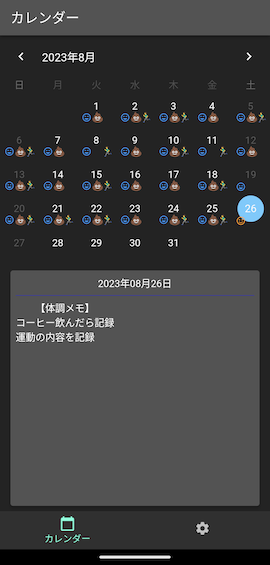
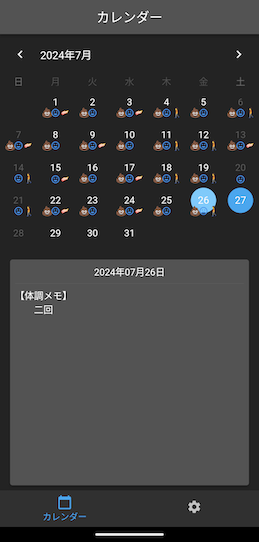
fix: 機能追加とUI変更に伴い、READMEの内容とスクショ画像を差し替え

diff --git a/README.md b/README.md
@@ -1,6 +1,10 @@
 # simple_dyphic
-体調管理アプリdyphicの超簡易版アプリ  
-ついでにRiverpodを導入したりsqfliteをhiveに変更するなどライブラリ周りを色々変更
+体調管理アプリdyphicの簡易版アプリとして作成しました。  
+初めは簡易版で終わらせるつもりでしたが、数年経過してもう少し情報を追加したくなったのでdyphicの簡易版ではなくなっています。  
+
+私しか使わない想定のアプリですのでAndroidアプリ側しか動作確認と利用をしていません。ただ、一応どちらでも使える実装にはなっているはずです。
+
+（Appleのヘルスケアアプリ連携の部分は動くか不明なのと、アイコンをヘルスコネクト固定にしているので分岐が必要です）
 
 # command
 ```
@@ -10,4 +14,5 @@ flutter build appbundle
 ```
 
 # screenshot
+Android端末でのスクリーンショット
 <img src="images/01_top_page.png" /> <img src="images/02_record_page.png" /> <img src="images/03_settings_page.png" />
